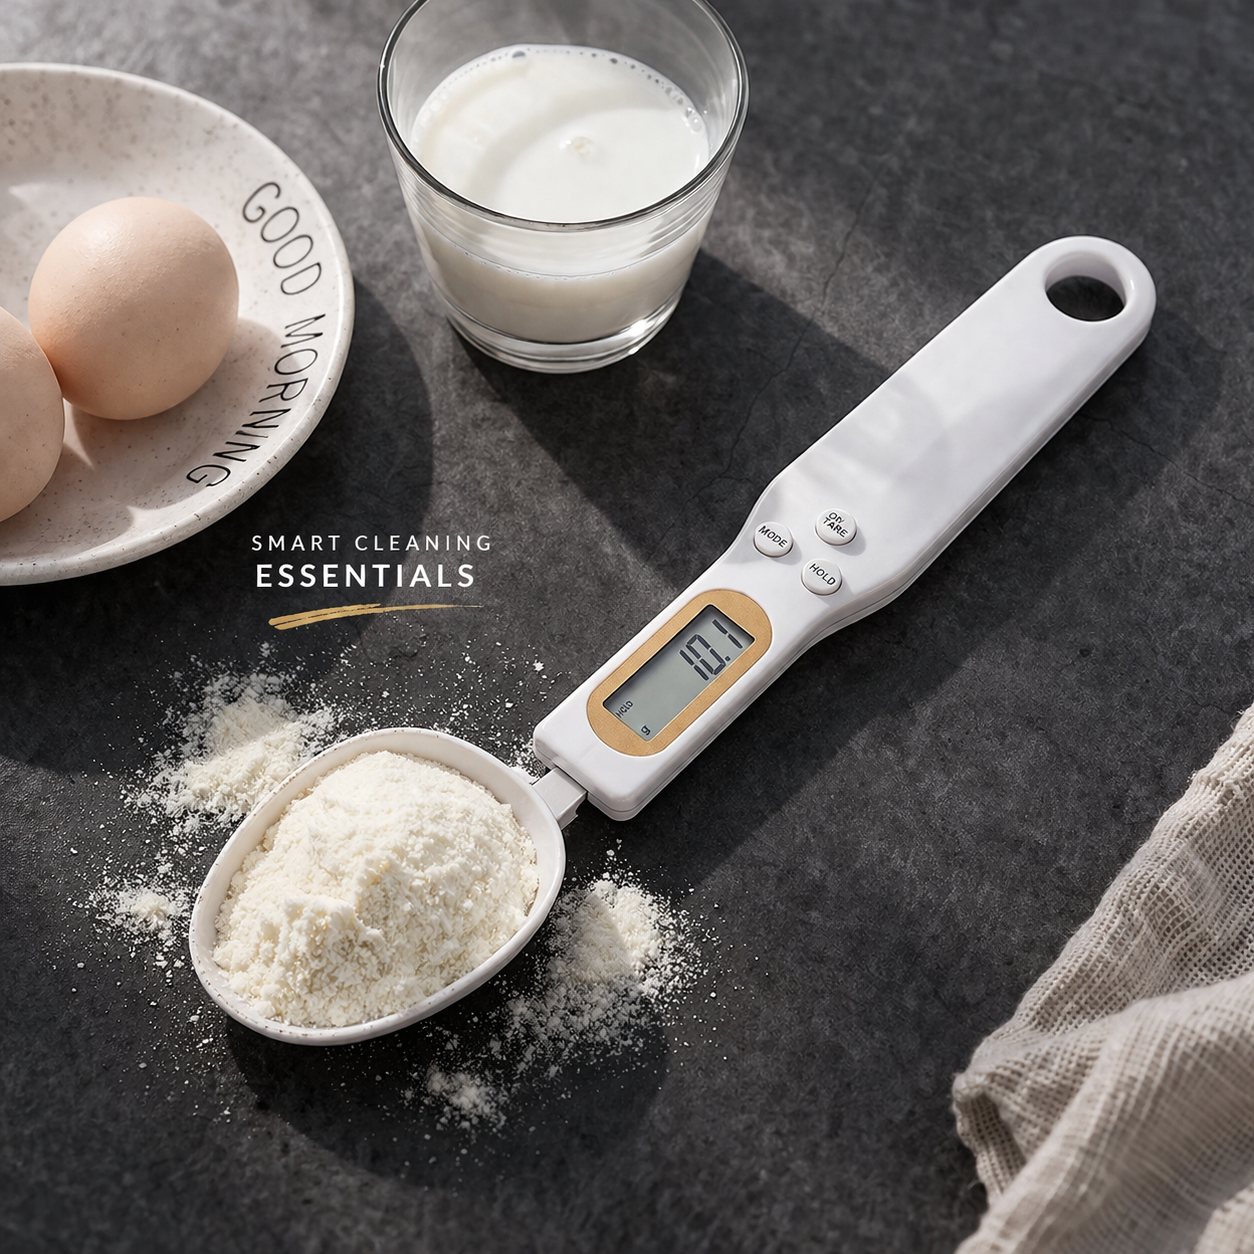
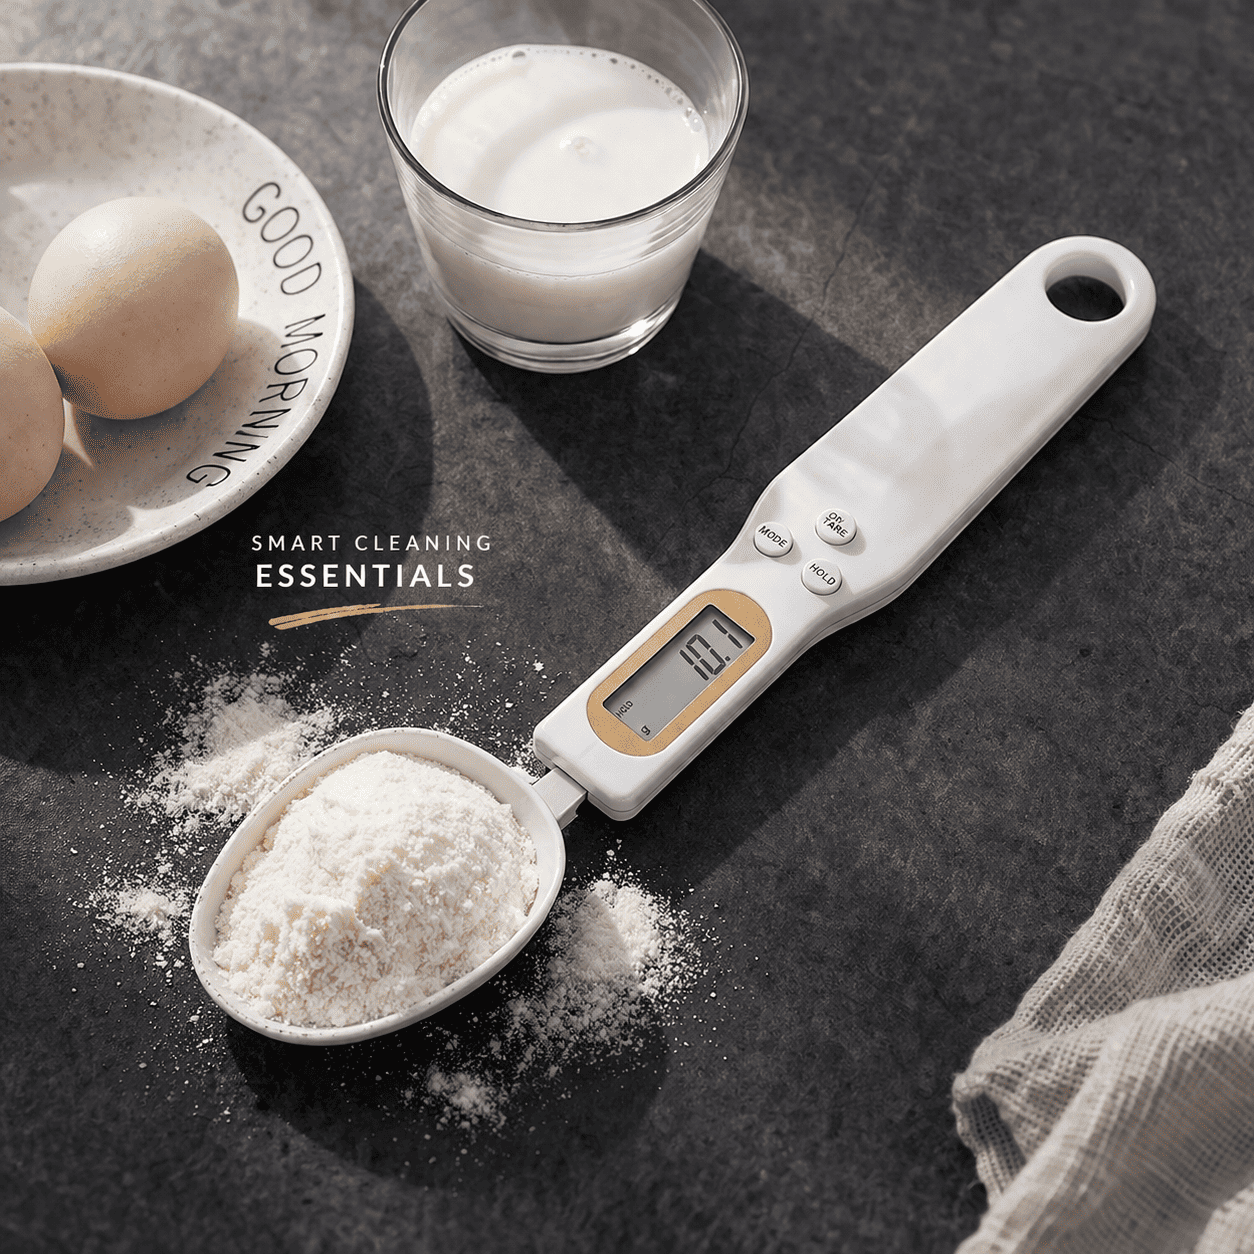
Images updated

diff --git a/index.html b/index.html
@@ -396,11 +396,11 @@
             data-rating="5"
             data-sale="true"
             data-new="true"
-            data-images='["images/spoon.webp", "images/spoon1.png", "images/spoon2.jpg"]'
+            data-images='["images/spoon.png", "images/spoon1.png", "images/spoon2.jpg"]'
           >
             <div class="product-img-wrap carousel-container">
               <img
-                src="images/spoon.webp"
+                src="images/spoon.png"
                 alt="Digital Measuring Spoon"
                 class="product-img"
                 loading="lazy"
@@ -454,11 +454,11 @@
             data-rating="5"
             data-sale="true"
             data-new="true"
-            data-images='["images/mini_fan.webp", "images/mini_fan1.jpg", "images/mini_fan2.webp"]'
+            data-images='["images/mini_fan.png", "images/mini_fan1.jpg", "images/mini_fan2.png"]'
           >
             <div class="product-img-wrap carousel-container">
               <img
-                src="images/mini_fan.webp"
+                src="images/mini_fan.png"
                 alt="Folding USB Charging Fan"
                 class="product-img"
                 loading="lazy"
@@ -512,7 +512,7 @@
             data-rating="5"
             data-sale="true"
             data-new="true"
-            data-images='["images/laptop_fan.jpg", "images/laptop_fan1.jpg", "images/laptop_fan2.webp"]'
+            data-images='["images/laptop_fan.jpg", "images/laptop_fan1.jpg", "images/laptop_fan2.png"]'
           >
             <div class="product-img-wrap carousel-container">
               <img
@@ -573,11 +573,11 @@
             data-rating="5"
             data-sale="true"
             data-new="true"
-            data-images='["images/soap_brush.webp", "images/soap_brush1.webp", "images/soap_brush2.png", "images/soap_brush3.png"]'
+            data-images='["images/soap_brush.png", "images/soap_brush1.png", "images/soap_brush2.png", "images/soap_brush3.png"]'
           >
             <div class="product-img-wrap carousel-container">
               <img
-                src="images/soap_brush.webp"
+                src="images/soap_brush.png"
                 alt="Dishwasher scrubber brush kitchen tools liquid soap dispenser cleaning brush pot dish washing"
                 class="product-img"
                 loading="lazy"
@@ -751,7 +751,7 @@
         <div class="cat-cards-grid">
           <div class="cat-card cat-card--large" id="cat-card-kitchen">
             <img
-              src="images/category_kitchen.png"
+              src="images/category_kitchen.jpg"
               alt="Kitchenware Pro"
               class="cat-card-img"
             />
@@ -767,7 +767,7 @@
           </div>
           <div class="cat-card" id="cat-card-gadgets">
             <img
-              src="images/category_gadgets.png"
+              src="images/category_gadgets.jpg"
               alt="Gadget Zone"
               class="cat-card-img"
             />
@@ -823,7 +823,7 @@
             <button
               class="btn btn-sm btn-outline"
               id="sel-add-spoon"
-              data-img="images/spoon.webp"
+              data-img="images/spoon.png"
             >
               Add
             </button>
@@ -841,7 +841,7 @@
             <button
               class="btn btn-sm btn-outline"
               id="sel-add-fan"
-              data-img="images/mini_fan.webp"
+              data-img="images/mini_fan.png"
             >
               Add
             </button>
@@ -880,7 +880,7 @@
             <button
               class="btn btn-sm btn-outline"
               id="sel-add-soap-brush"
-              data-img="images/soap_brush.webp"
+              data-img="images/soap_brush.png"
             >
               Add
             </button>

diff --git a/shop.html b/shop.html
@@ -483,11 +483,11 @@
             data-rating="5"
             data-sale="true"
             data-new="true"
-            data-images='["images/spoon.webp", "images/spoon1.png", "images/spoon2.jpg"]'
+            data-images='["images/spoon.png", "images/spoon1.png", "images/spoon2.jpg"]'
           >
             <div class="product-img-wrap carousel-container">
               <img
-                src="images/spoon.webp"
+                src="images/spoon.png"
                 alt="Digital Measuring Spoon"
                 class="product-img"
                 loading="lazy"
@@ -541,11 +541,11 @@
             data-rating="5"
             data-sale="true"
             data-new="true"
-            data-images='["images/mini_fan.webp", "images/mini_fan1.jpg", "images/mini_fan2.webp"]'
+            data-images='["images/mini_fan.png", "images/mini_fan1.jpg", "images/mini_fan2.png"]'
           >
             <div class="product-img-wrap carousel-container">
               <img
-                src="images/mini_fan.webp"
+                src="images/mini_fan.png"
                 alt="Folding USB Charging Fan"
                 class="product-img"
                 loading="lazy"
@@ -599,7 +599,7 @@
             data-rating="5"
             data-sale="true"
             data-new="true"
-            data-images='["images/laptop_fan.jpg", "images/laptop_fan1.jpg", "images/laptop_fan2.webp"]'
+            data-images='["images/laptop_fan.jpg", "images/laptop_fan1.jpg", "images/laptop_fan2.png"]'
           >
             <div class="product-img-wrap carousel-container">
               <img
@@ -660,11 +660,11 @@
             data-rating="5"
             data-sale="true"
             data-new="true"
-            data-images='["images/soap_brush.webp", "images/soap_brush1.webp", "images/soap_brush2.png", "images/soap_brush3.png"]'
+            data-images='["images/soap_brush.png", "images/soap_brush1.png", "images/soap_brush2.png", "images/soap_brush3.png"]'
           >
             <div class="product-img-wrap carousel-container">
               <img
-                src="images/soap_brush.webp"
+                src="images/soap_brush.png"
                 alt="Dishwasher scrubber brush kitchen tools liquid soap dispenser cleaning brush pot dish washing"
                 class="product-img"
                 loading="lazy"

diff --git a/js/main.js b/js/main.js
@@ -667,7 +667,7 @@ document.addEventListener("DOMContentLoaded", () => {
               ? "images/product_lamp.png"
               : btn.id.includes("book")
                 ? "images/product_laptop.png"
-                : "images/category_gadgets.png"),
+                : "images/category_gadgets.jpg"),
         cat: "Electronics",
       };
       ShopNestCart.add(item);
